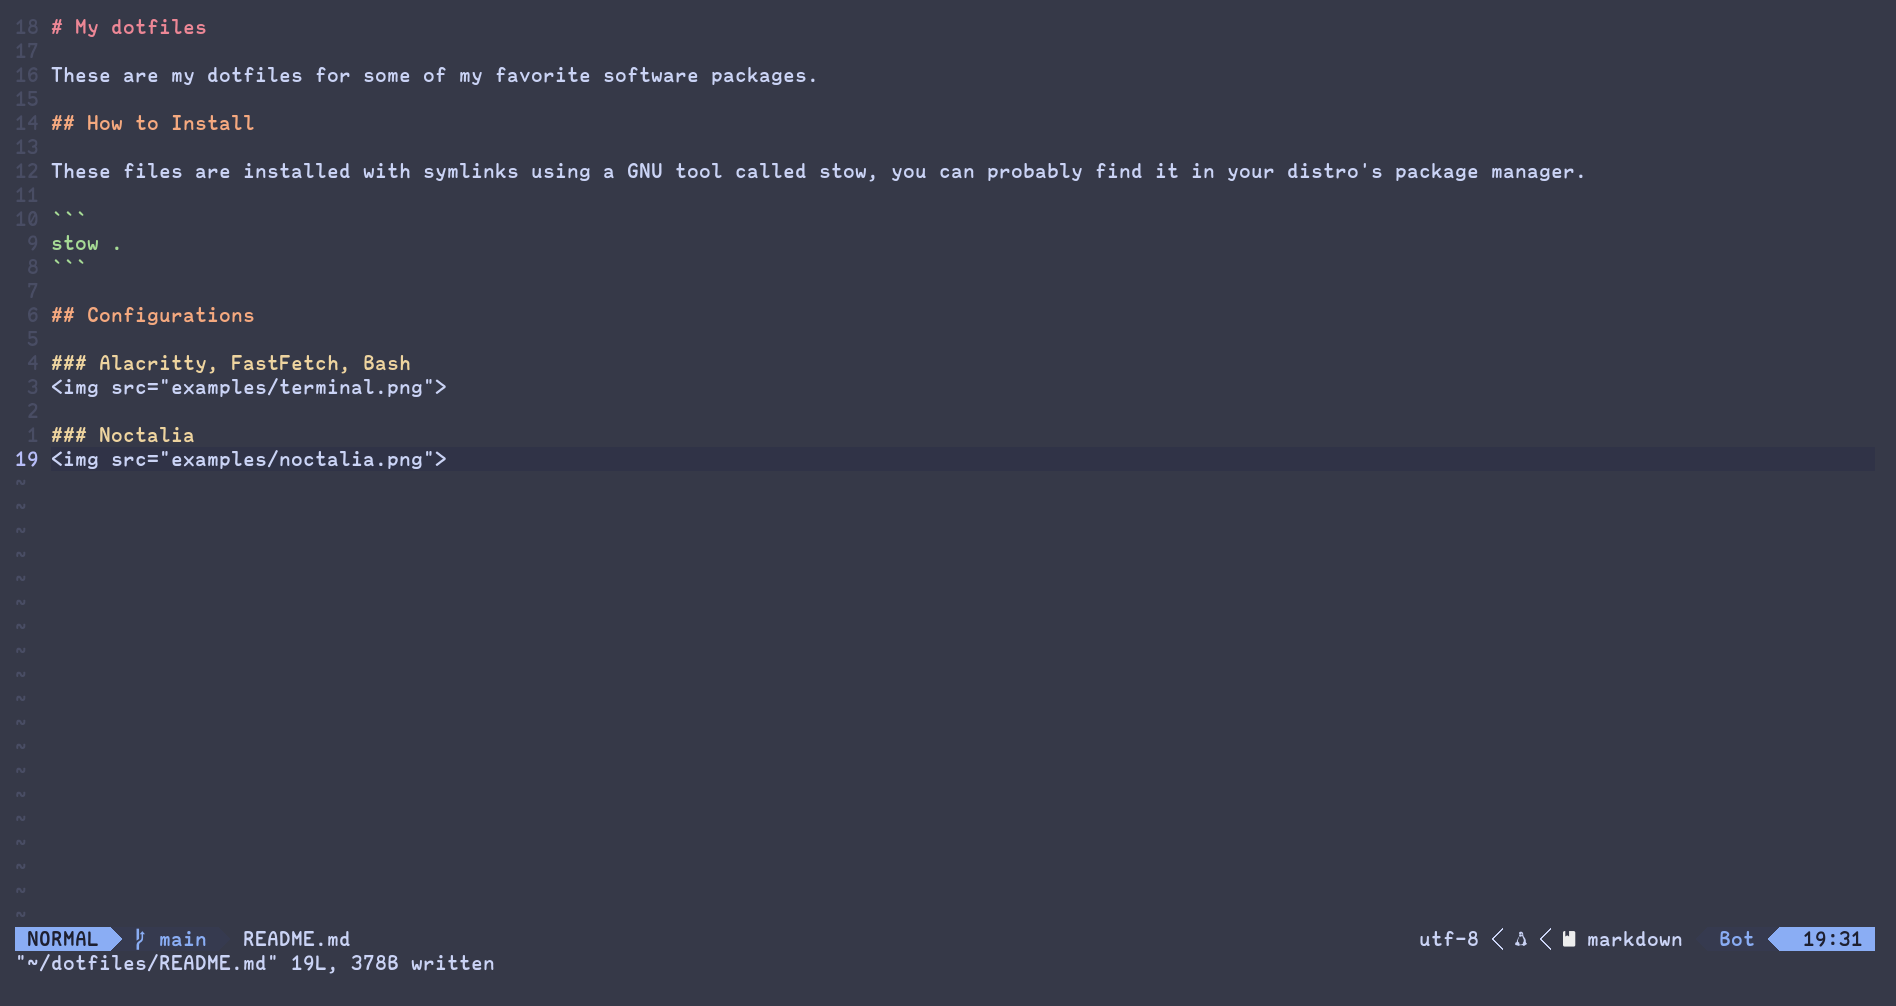
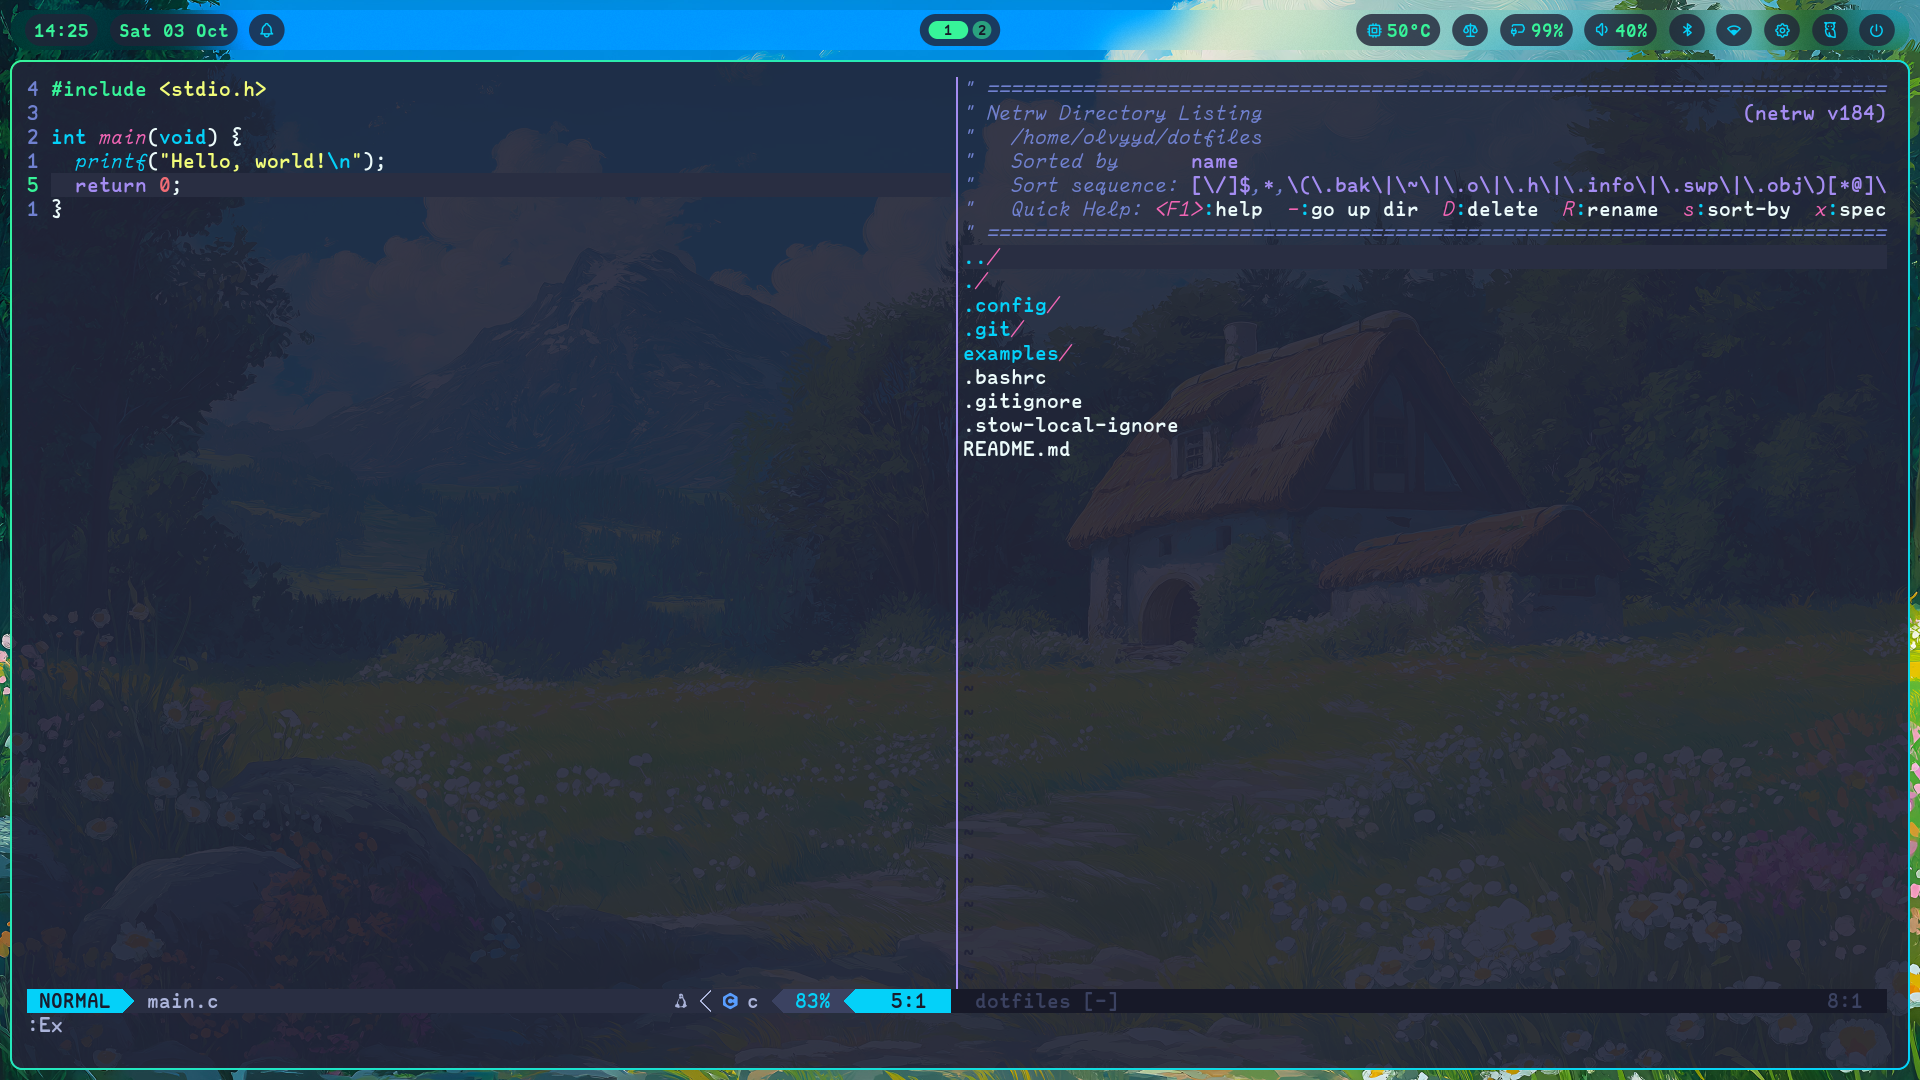
updated examples

Changed region(s): [[0.0, 0.0, 1.0, 1.0], [0.4979, 0.2773, 0.6224, 0.4314]]

diff --git a/README.md b/README.md
@@ -15,8 +15,8 @@ stow .
 ### Alacritty, FastFetch, Bash
 <img src="examples/terminal.png">
 
-### Noctalia
-<img src="examples/noctalia.png">
+### Noctalia desktop
+<img src="examples/desktop.png">
 
 ### Neovim
 <img src="examples/neovim.png">
